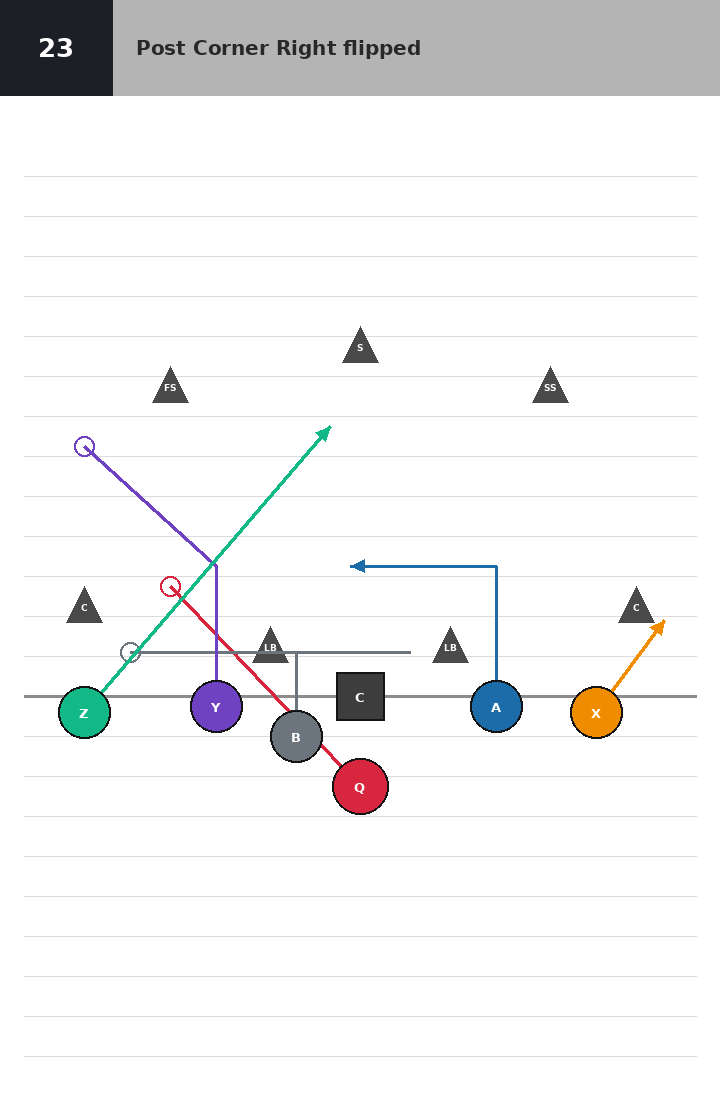
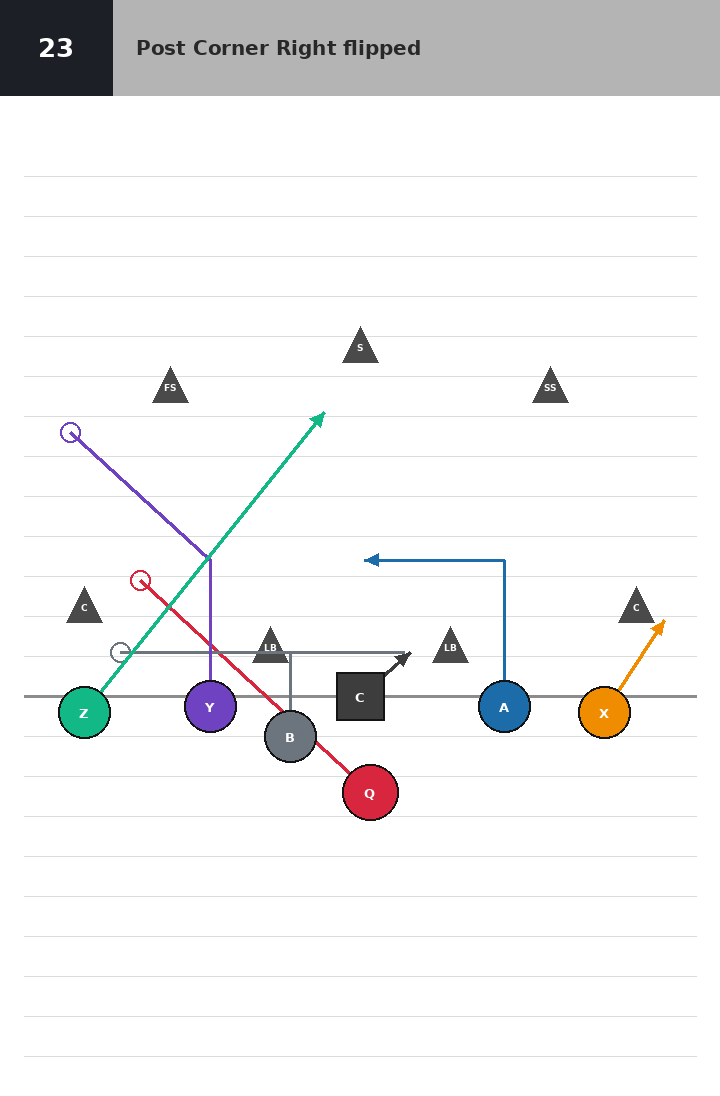
Re-trace 23/26/38 from Kevin’s attached cards; keep PR draft for original PNGs
Animator + coords now follow the clean crop geometry (23 = flip of 26; 38 X dig
primary; C short blocks). Playbook PNGs are still traced recreations — chat
attachments never landed on the VM — so PR #40 stays draft until original pixels
are pushed into play-cards/.

diff --git a/plays.html b/plays.html
@@ -182,7 +182,7 @@ const NICKEL=[
   {id:"SS",x:85,y:175},{id:"FS",x:180,y:140}
 ];
 
-// Traced from Kevin’s clean no-star cards. 23 = true flip of 26.
+// Traced from Kevin’s clean card crops. 23 = true flip of 26.
 function play26(){
   return {
     id:"26",
@@ -196,13 +196,13 @@ function play26(){
     ],
     defense:COVER3,
     spots:[
-      spot("Q",180,345,[{x:275,y:245}]),
-      spot("C",180,LOS,[]),
-      spot("X",62,308,[{x:28,y:262}]),
-      spot("A",112,305,[{x:112,y:235},{x:185,y:235}]),
-      spot("B",212,320,[{x:212,y:278},{x:155,y:278},{x:295,y:278}]),
-      spot("Y",252,305,[{x:252,y:235},{x:318,y:175}]),
-      spot("Z",318,308,[{x:195,y:165}])
+      spot("Q",175,348,[{x:290,y:242}]),
+      spot("C",180,LOS,[{x:155,y:278}]),
+      spot("X",58,308,[{x:28,y:262}]),
+      spot("A",108,305,[{x:108,y:232},{x:178,y:232}]),
+      spot("B",215,320,[{x:215,y:278},{x:158,y:278},{x:300,y:278}]),
+      spot("Y",255,305,[{x:255,y:232},{x:325,y:168}]),
+      spot("Z",318,308,[{x:198,y:158}])
     ]
   };
 }
@@ -231,19 +231,19 @@ function play38(){
     pair:"",
     flipLabel:"No flip card",
     looks:[
-      {id:"first",label:"1 · First open",target:"B",cue:"First open past the line — B hook or Y flat."},
-      {id:"a",label:"2 · A break",target:"A",cue:"If the right is covered, A’s break."}
+      {id:"x",label:"1 · X dig",target:"X",cue:"X’s dig (red on Kevin’s card) is the first throw."},
+      {id:"a",label:"2 · A break",target:"A",cue:"If X is covered, A’s break."}
     ],
     defense:NICKEL,
     spots:[
       // Card may show a red Q; animator keeps a named circle so kids see Mike.
       spot("Q",180,348,[]),
-      spot("C",172,LOS,[{x:172,y:278},{x:210,y:278}]),
-      spot("A",122,LOS,[{x:122,y:255},{x:135,y:240},{x:55,y:165}]),
-      spot("X",205,LOS,[{x:205,y:215},{x:265,y:165}]),
-      spot("B",240,LOS,[{x:240,y:255},{x:275,y:235},{x:250,y:225}]),
-      spot("Y",278,LOS,[{x:278,y:275},{x:310,y:255},{x:340,y:255}]),
-      spot("Z",315,LOS,[{x:250,y:245},{x:255,y:200},{x:325,y:145}])
+      spot("C",162,LOS,[{x:162,y:275},{x:205,y:275}]),
+      spot("A",118,LOS,[{x:118,y:248},{x:148,y:218},{x:105,y:175}]),
+      spot("X",198,LOS,[{x:198,y:185},{x:275,y:162}]),
+      spot("B",232,LOS,[{x:232,y:258},{x:268,y:242},{x:252,y:232}]),
+      spot("Y",268,LOS,[{x:295,y:268},{x:338,y:252}]),
+      spot("Z",305,LOS,[{x:248,y:248},{x:255,y:195},{x:328,y:138}])
     ]
   };
 }

diff --git a/play-cards/_render_cards.py b/play-cards/_render_cards.py
@@ -68,26 +68,27 @@ NICKEL = [
     {"id": "FS", "x": 180, "y": 140},
 ]
 
-# --- Traced from clean cards ---
-# 26 Post Corner Right (source). 23 = true horizontal flip.
+# --- Traced from Kevin’s clean card crops (attached play-26 / play-23 / play-38). ---
+# 26 Post Corner Right (source). 23 = true horizontal flip of 26.
 P26 = {
     "num": "26",
     "title": "Post Corner Right",
     "defense": COVER3,
     "spots": [
-        # Q rolls forward-right to open circle (not a sideline scramble)
-        spot("Q", 180, 345, [{"x": 275, "y": 245}]),
-        spot("C", 180, LOS, []),
+        # Q throw to open circle on the right (primary window near Y/Z)
+        spot("Q", 175, 348, [{"x": 290, "y": 242}]),
+        # C short engagement triangle toward left LB (offense C, not defense)
+        spot("C", 180, LOS, [{"x": 155, "y": 278}]),
         # X short out
-        spot("X", 62, 308, [{"x": 28, "y": 262}]),
-        # A dig: up then 90° in
-        spot("A", 112, 305, [{"x": 112, "y": 235}, {"x": 185, "y": 235}]),
-        # B zig: up, left across C, then right to open circle
-        spot("B", 212, 320, [{"x": 212, "y": 278}, {"x": 155, "y": 278}, {"x": 295, "y": 278}]),
+        spot("X", 58, 308, [{"x": 28, "y": 262}]),
+        # A dig/curl: up then in toward middle
+        spot("A", 108, 305, [{"x": 108, "y": 232}, {"x": 178, "y": 232}]),
+        # B zig: up, left across under C, then right to open circle
+        spot("B", 215, 320, [{"x": 215, "y": 278}, {"x": 158, "y": 278}, {"x": 300, "y": 278}]),
         # Y corner
-        spot("Y", 252, 305, [{"x": 252, "y": 235}, {"x": 318, "y": 175}]),
+        spot("Y", 255, 305, [{"x": 255, "y": 232}, {"x": 325, "y": 168}]),
         # Z post: diagonal deep left, crosses Y
-        spot("Z", 318, 308, [{"x": 195, "y": 165}]),
+        spot("Z", 318, 308, [{"x": 198, "y": 158}]),
     ],
 }
 P23 = {
@@ -95,22 +96,26 @@ P23 = {
     "title": "Post Corner Right flipped",
     "defense": [{**d, "x": flipx(d["x"])} for d in COVER3],
     "spots": [flips(s) for s in P26["spots"]],
-    # C engagement triangle on the card (short nudge toward LB) — keep C still for animation
 }
 P38 = {
     "num": "38",
     "title": "Overload first down",
     "defense": NICKEL,
     "spots": [
-        # Card shows red Q circle (no path). Animator uses named circle, not star.
+        # Card may show a red Q; animator keeps a named circle so kids see Mike.
         spot("Q", 180, 348, []),
-        spot("C", 172, LOS, [{"x": 172, "y": 278}, {"x": 210, "y": 278}]),
-        spot("A", 122, LOS, [{"x": 122, "y": 255}, {"x": 135, "y": 240}, {"x": 55, "y": 165}]),
-        # X is the red path on the card: up then break up-right
-        spot("X", 205, LOS, [{"x": 205, "y": 215}, {"x": 265, "y": 165}]),
-        spot("B", 240, LOS, [{"x": 240, "y": 255}, {"x": 275, "y": 235}, {"x": 250, "y": 225}]),
-        spot("Y", 278, LOS, [{"x": 278, "y": 275}, {"x": 310, "y": 255}, {"x": 340, "y": 255}]),
-        spot("Z", 315, LOS, [{"x": 250, "y": 245}, {"x": 255, "y": 200}, {"x": 325, "y": 145}]),
+        # C short block right
+        spot("C", 162, LOS, [{"x": 162, "y": 275}, {"x": 205, "y": 275}]),
+        # A: up, slight right, break left-up (not a deep sideline post)
+        spot("A", 118, LOS, [{"x": 118, "y": 248}, {"x": 148, "y": 218}, {"x": 105, "y": 175}]),
+        # X is the red path on Kevin’s card: vertical then break right
+        spot("X", 198, LOS, [{"x": 198, "y": 185}, {"x": 275, "y": 162}]),
+        # B short hook / open-circle stop
+        spot("B", 232, LOS, [{"x": 232, "y": 258}, {"x": 268, "y": 242}, {"x": 252, "y": 232}]),
+        # Y slant then flat right open circle
+        spot("Y", 268, LOS, [{"x": 295, "y": 268}, {"x": 338, "y": 252}]),
+        # Z: stem left then deep right
+        spot("Z", 305, LOS, [{"x": 248, "y": 248}, {"x": 255, "y": 195}, {"x": 328, "y": 138}]),
     ],
 }
 P68 = {

diff --git a/play-cards/README.md b/play-cards/README.md
@@ -3,5 +3,17 @@ Kevin’s clean Now-5 cards (no star screenshots).
 Playbook prefers `*.png`. Animator routes in `plays.html` are traced to match these pictures.
 `deploy.yml` strips this folder from public GitHub Pages.
 
-If the original crop PNGs from `/workspace/play-crops-clean/` are available, copy them over
-these files as `23.png` … `6.png` so Playbook shows Kevin’s exact pixels.
+## Original crop pixels (required for undraft)
+
+Chat attachments for `/workspace/play-crops-clean/play-*.png` are **not landing on the
+agent VM** (folder stays empty; `Read` / `Task` `file_attachments` fail). Until the
+original bytes are on disk, the PNGs here are **traced recreations** from
+`_render_cards.py`, not Kevin’s crop pixels.
+
+To finish: push the 7 original crops onto this branch as:
+
+- `play-cards/23.png`, `26.png`, `38.png`, `68.png`, `02.png`, `19.png`, `06.png`
+- also keep `2.png` ← `02.png` and `6.png` ← `06.png` (app loads both names)
+
+Then re-run nothing — Playbook already prefers `*.png`. Undraft PR #40 only after
+Playbook shows those original files and the animator matches 23/26/38.
